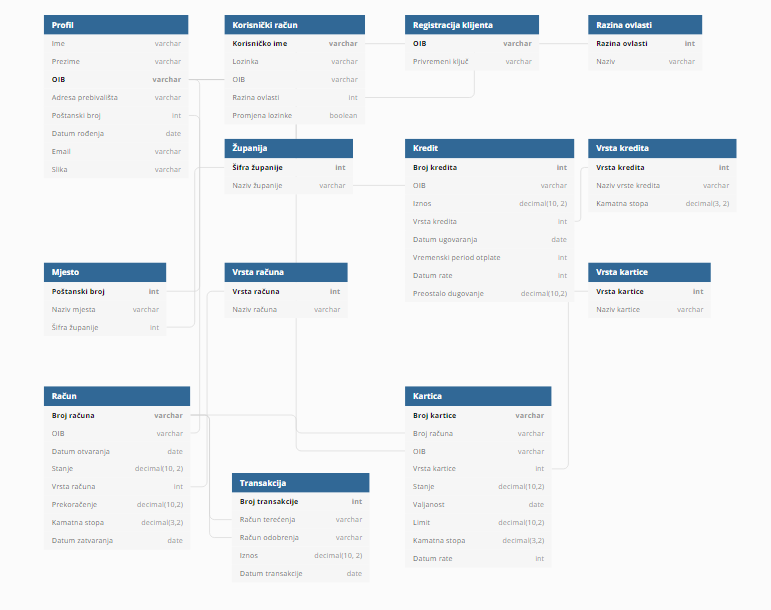
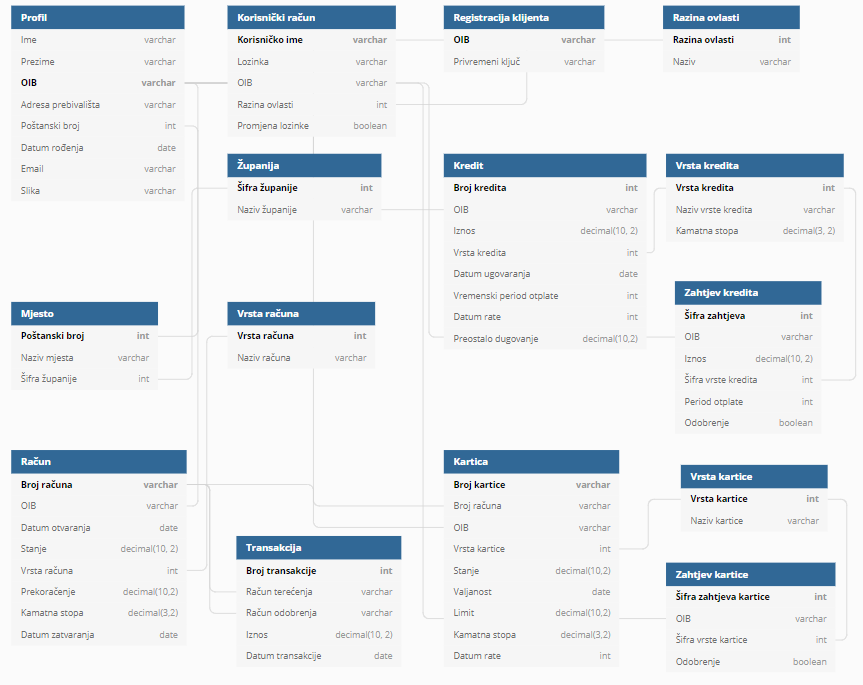
Popravljena baza podataka

diff --git a/dokumentacija/Arhitektura.tex b/dokumentacija/Arhitektura.tex
@@ -51,11 +51,13 @@
 			\item   Razina ovlasti
 			\item   Kredit
 			\item   Vrsta kredita
+			\item  	Zahtjev kredit
 			\item   Transakcija
 			\item   Račun
 			\item   Vrsta računa
 			\item   Kartica
-			\item   Vrsta kartice	
+			\item   Vrsta kartice
+			\item 	Zahtjev kartica	
 			\item   Mjesto
 			\item   Županija	
 		\end{itemize}
@@ -232,7 +234,7 @@
 			
 		\end{longtabu}
 	
-			\textbf{Vrsta kredita} Ovaj entitet sadrži sve važne informacije o vrsti kredita. Sadrži atribute: vrsta kredita, naziv vrste kredita i kamatnu stopu. U vezi je \textit{One-to-One} sa entitetom Kredit preko tipa kredita. 
+			\textbf{Vrsta kredita} Ovaj entitet sadrži sve važne informacije o vrsti kredita. Sadrži atribute: vrsta kredita, naziv vrste kredita i kamatnu stopu. U vezi je \textit{One-to-One} sa entitetom Kredit preko vrste kredita i u vezi {One-to-Many} sa entitetom Zahtjev kredita preko vrste kredita. 
 	
 			\begin{longtabu} to \textwidth {|X[8, l]|X[8, l]|X[16, l]|}
 		
@@ -253,6 +255,32 @@
 		\end{longtabu}
 	
 		\eject
+		
+			\textbf{Zahtjev kredita}   Ovaj entitet sadrži sve važne informacije o zahtjevu kredita. Sadrži atribute: šifra zahtjeva, OIB, iznos, šifra vrste kredita, period otplate i odobrenje. U vezi je \textit{One-to-One} s entitetom Vrsta Kredita preko šifre vrste kredita i u vezi \textit{Many-to-One} s entitetom Profil preko OIB-a.
+		
+		
+		\begin{longtabu} to \textwidth {|X[8, l]|X[8, l]|X[16, l]|}
+			
+			\hline \multicolumn{3}{|c|}{\textbf{Zahtjev kredita}}	 \\[3pt] \hline
+			\endfirsthead
+			
+			\hline \multicolumn{3}{|c|}{\textbf{Zahtjev kredita}}	 \\[3pt] \hline
+			\endhead
+			
+			\hline 
+			\endlastfoot
+			
+			\textbf{Šifra zahtjeva} & INT & šifra zahtjeva kredita \\ \hline
+			\textit{OIB} & VARCHAR & OIB korisnika (profil.OIB)\\ \hline
+			Iznos & DECIMAL (10, 2) & iznos kredita \\ \hline
+			\textit{Šifra vrste kredita} & INT & vrsta kredita (šifraVrsteKredita.tipKredita) \\ \hline
+			Period otplate & INT & duljina otplate kredita u godinama \\ \hline
+			Odobrenje & BOOLEAN & status zahtjeva kredita \\ \hline
+			
+			
+			
+			
+		\end{longtabu}
 		
 				\textbf{Transakcija}   Ovaj entitet sadrži sve važne informacije o transakcijama koje klijent želi provesti. Sadrži atribute: broj transakcije, broj računa terećenja, račun odobrenja, iznos i datum transakcije. Entitet Transakcija u vezi je \textit{Many-to-One} s entitetom Račun preko broja računa terećenja i broja računa odobrenja.
 			
@@ -278,6 +306,7 @@
 				
 			\end{longtabu}
 		
+		
 			\textbf{Račun}   Ovaj entitet sadrži sve važne informacije o računu koji ima klijent. Sadrži atribute: broj računa, OIB klijenta, datum otvaranja računa, stanje računa, vrsta računa, prekoračenje, kamatna stopa i datum zatvaranja. U vezi je  \textit{Many-to-One} s entitetom Profil preko OIB-a, sa entitetom Vrsta Računa \textit{One-to-One} preko vrste računa. Također je u vezi \textit{One-to-Many} s entitetom Transakcija preko broja računa.
 		
 			\begin{longtabu} to \textwidth {|X[8, l]|X[8, l]|X[16, l]|}
@@ -302,7 +331,7 @@
 			
 		\end{longtabu}
 	
-			\eject
+			
 	
 				\textbf{Vrsta računa}   Ovaj entitet sadrži sve važne informacije o vrsti računa koje neki klijent posjeduje. Sadrži atribute: broj vrste računa i naziv računa. U vezi je \textit{One-to-One} s entitetom Račun preko vrste računa.
 			\begin{longtabu} to \textwidth {|X[8, l]|X[8, l]|X[16, l]|}
@@ -350,9 +379,11 @@
 	
 		
 
-		\end{longtabu}	
+		\end{longtabu}
 	
-			\textbf{Vrsta kartice}   Ovaj entitet sadrži sve važne informacije o vrstama kartice koje ima klijent. Sadrži atribute:broj vrste kartice i naziv kartice. U vezi je \textit{One-to-One} s entitetom Kartica preko vrste kartice.
+	\eject	
+	
+			\textbf{Vrsta kartice}   Ovaj entitet sadrži sve važne informacije o vrstama kartice koje ima klijent. Sadrži atribute: broj vrste kartice i naziv kartice. U vezi je \textit{One-to-One} s entitetom Kartica preko vrste kartice i u vezi sa entitetom Zahtjev kartice {One-to-One} preko vrste kartice.
 				\begin{longtabu} to \textwidth {|X[8, l]|X[8, l]|X[16, l]|}
 				
 				\hline \multicolumn{3}{|c|}{\textbf{Vrsta kartice}}	 \\[3pt] \hline
@@ -370,6 +401,31 @@
 		
 		
 		\end{longtabu}
+	
+	
+	
+			\textbf{Zahtjev kartice}   Ovaj entitet sadrži sve važne informacije o zahtjevu kartice. Sadrži atribute: šifra zahtjeva, OIB, šifra vrste kartice i odobrenje. U vezi je \textit{Many-to-One} s entitetom Profil preko OIB-a i sa entitetom Vrsta kartice \textit{One-to-One} preko šifre vrste kartice. 
+			
+			\begin{longtabu} to \textwidth {|X[8, l]|X[8, l]|X[16, l]|}
+				
+				\hline \multicolumn{3}{|c|}{\textbf{Zahtjev kartice}}	 \\[3pt] \hline
+				\endfirsthead
+				
+				\hline \multicolumn{3}{|c|}{\textbf{Zahtjev kartice}}	 \\[3pt] \hline
+				\endhead
+				
+				\hline 
+				\endlastfoot
+				
+				\textbf{Šifra zahtjeva} & INT & šifra zahtjeva kartice\\ \hline
+				\textit{OIB} & VARCHAR & OIB klijenta (profil.OIB)\\ \hline
+				\textit{Šifra vrste kartice} & INT & broj tipa kartice (vrstaKartice.tipKartice)\\ \hline
+				Odobrenje & BOOLEAN & status zahtjeva kartice \\ \hline
+				
+				
+				
+			\end{longtabu}	
+			
 			
 			\subsection{Dijagram baze podataka}
 			
